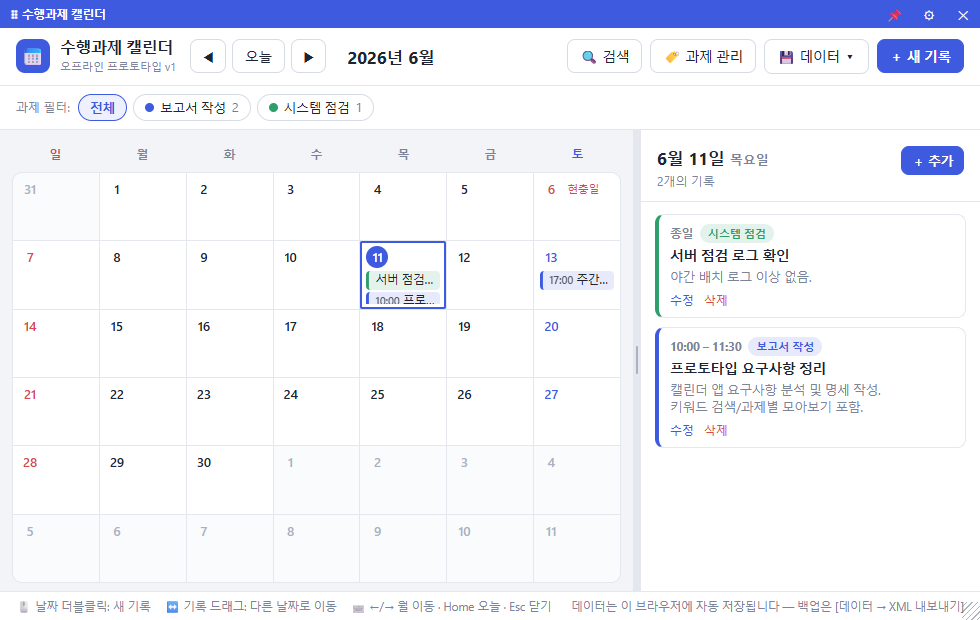
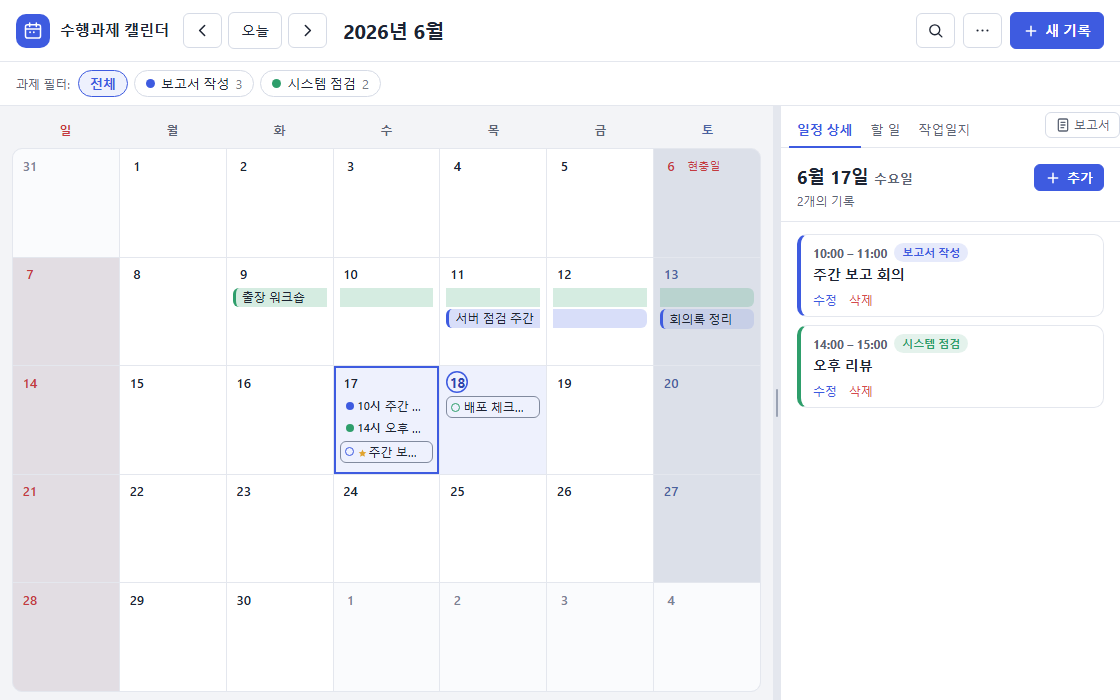
docs: README 최신화 + 사용 설명서(USAGE.md) + 스크린샷 갱신
- README: 접근성(WCAG AA 키보드/ARIA)·다크모드·단색 SVG 아이콘 시스템·
  토스트+되돌리기·부팅 스켈레톤 반영. 키보드 단축키 표 추가, 크기 171MB,
  로드맵 완료분 체크, 라이선스→LICENSE(MIT) 링크, 현재 UI 스크린샷 임베드.
- USAGE.md(사용 설명서) 신설: 시작·화면구성·등록/수정·기간/반복·할일·
  Git 작업일지·보고서·검색·창모드·다크·키보드 단축키 전체표·데이터/백업·FAQ.
- assets/screenshot.png: 현재 UI(멀티데이 막대·시간칩·할일 별표·우측 카드)로 갱신.

diff --git a/USAGE.md b/USAGE.md
@@ -1,0 +1,143 @@
+# 📖 사용 설명서 — 수행과제 캘린더
+
+> 처음 쓰는 분을 위한 기능별 사용법 + 키보드 단축키 + 문제 해결. 빌드/배포는 [DEPLOY.md](DEPLOY.md), 데이터 스키마는 [SPEC.md](SPEC.md)를 보세요.
+
+<img src="assets/screenshot.png" alt="수행과제 캘린더 화면" width="820">
+
+---
+
+## 목차
+1. [시작하기](#1-시작하기)
+2. [화면 구성](#2-화면-구성)
+3. [일정·할 일 등록 (빠른 캡처)](#3-일정할-일-등록-빠른-캡처)
+4. [수정·삭제](#4-수정삭제)
+5. [기간·반복 일정](#5-기간반복-일정)
+6. [할 일(TODO)](#6-할-일todo)
+7. [Git 커밋 → 작업일지](#7-git-커밋--작업일지)
+8. [보고서 만들기](#8-보고서-만들기)
+9. [검색·과제 필터](#9-검색과제-필터)
+10. [창 모드·트레이·크기 조절](#10-창-모드트레이크기-조절)
+11. [다크 모드](#11-다크-모드)
+12. [키보드 단축키](#12-키보드-단축키)
+13. [데이터·백업](#13-데이터백업)
+14. [문제 해결(FAQ)](#14-문제-해결faq)
+
+---
+
+## 1. 시작하기
+
+- **위젯(권장)**: 배포된 `수행과제캘린더.exe`를 실행하면 바탕화면에 위젯이 뜹니다. `Win+D`로 바탕화면을 봐도 함께 보입니다.
+- **브라우저(체험)**: `task-calendar-prototype.html`을 더블클릭하면 Edge에서 그대로 동작합니다(데이터는 브라우저 localStorage에 저장).
+- 첫 실행 때 **자동 시작(로그인 시 실행)** 여부를 1회 물어봅니다. 나중에 ⚙(설정)에서 변경할 수 있습니다.
+- **과제(카테고리) 먼저 만들기**: 상단 `⋯ → 🏷 과제 관리`에서 "보고서 작성", "시스템 점검"처럼 수행 과제를 만들고 색을 지정하세요. (Git 연동 시 저장소 경로도 여기서.)
+
+## 2. 화면 구성
+
+| 영역 | 설명 |
+|---|---|
+| **상단바** | `◀ 오늘 ▶` 월 이동 · 연·월 제목(클릭 시 점프) · `검색` · `⋯`(과제 관리·데이터·도움말) · `＋ 새 기록` |
+| **과제 필터 바** | 과제별 보기 토글. "전체"가 기본 |
+| **월 그리드(좌)** | 주말 옅은 틴트, 오늘은 얇은 링, 선택 날짜는 강조. 일정=채운 막대 / 할 일=속 빈 링 칩 / 시간 일정=색점+시각 |
+| **우측 패널** | `[일정 상세 | 할 일 | 작업일지]` 탭 + `📋 보고서`. 셋 다 **선택한 날짜**를 따라갑니다 |
+| **분할바** | 좌/우 너비 드래그 조절 (좁은 폭에선 우측이 하단 시트로) |
+
+## 3. 일정·할 일 등록 (빠른 캡처)
+
+모든 등록은 **빠른 캡처** 한 곳으로 모입니다. 여는 방법:
+- 상단 **＋ 새 기록**
+- 날짜 칸 **더블클릭**
+- 우측 패널 **＋ 추가** / **＋ 할 일 추가**
+
+빠른 캡처에서:
+1. 상단 토글로 **일정 / 할 일** 선택
+2. 제목 입력
+3. 날짜·과제 지정
+4. 필요하면 **옵션 더보기**로 종일/시간·반복·기간·메모(일정) 또는 중요·기간·메모(할 일)
+5. **추가**
+
+> 시간을 넣으려면 "종일" 체크를 끄면 시작/종료 시간 칸이 나타납니다.
+
+## 4. 수정·삭제
+
+- **수정**: 캘린더의 일정 칩을 클릭하거나, 우측 카드의 **수정**. 단순 일정은 빠른 캡처(편집 모드)로 열리고, **자세히 편집**을 누르면 전체 편집기(반복 간격·횟수, Git 등)로 넘어갑니다(입력값 보존).
+- **삭제**: 카드의 **삭제**. 삭제 후 토스트의 **실행 취소**로 되돌릴 수 있습니다.
+- **반복 일정 삭제**: "이 날짜만"(건너뛰기) 또는 "전체 반복" 선택.
+
+## 5. 기간·반복 일정
+
+- **기간(여러 날)**: 옵션 더보기 → "여러 날에 걸침" 체크 → 종료일. 캘린더에 **연속 막대**로 표시되고, 겹치는 막대는 서로 다른 줄(레인)에 고정됩니다.
+- **반복**: 옵션 더보기 → 반복(매주/매월). 간격(격주 등)·종료(횟수/날짜)는 **자세히 편집**에서.
+- 기간 일정은 막대를 드래그하면 시작·종료가 함께 이동(길이 보존)합니다.
+
+## 6. 할 일(TODO)
+
+- 우측 **할 일** 탭: 선택한 날짜의 [이 날 / 기한 없음 / 이 날 완료] 구획.
+- 체크박스로 완료 토글(완료는 취소선 + "완료" 구획으로 이동), **별표**로 중요 표시, **중요만** 버튼으로 필터.
+- 제목을 클릭하면 인라인 편집(텍스트·기한·과제·중요).
+- 기한이 있는 할 일은 **캘린더에 속 빈 링 칩**으로 표시되어 일정(채운 막대)과 모양으로 구분됩니다(색맹 안전).
+
+## 7. Git 커밋 → 작업일지
+
+> 위젯 모드 전용 (PC에 git 설치 + 과제에 로컬 저장소 경로 연결 필요).
+
+1. `⋯ → 🏷 과제 관리`에서 과제에 **Git 저장소 경로**와 **내 작성자(author)**를 연결.
+2. 우측 **작업일지** 탭의 **이 날 커밋** — 그날 내 커밋을 끌어와 작업일지(`source=git`)로 등록.
+3. **기간 일괄 불러오기** — 주말에 그 주 전체를 모든(또는 특정) 과제에서 한 번에 등록.
+4. 작업일지는 일반 일정과 달리 캘린더 셀에는 숨기고(작업일지 필터 켤 때만 노출), 패널·보고서에는 항상 보입니다.
+
+## 8. 보고서 만들기
+
+우측 패널 **📋 보고서** → 기간 프리셋(오늘/이번주/지난주/이번달/지난달) 또는 직접 지정 → 과제별·날짜별 **Markdown/텍스트 초안** 생성 → **복사** 또는 파일 저장. 그룹웨어/HWP 주간보고에 붙여넣기 좋게 정리됩니다.
+
+## 9. 검색·과제 필터
+
+- **검색**(상단 돋보기): 제목·메모·과제로 전역 검색, 날짜별 그룹 + 하이라이트. 클릭하면 그 날짜로 이동.
+- **과제 필터 바**: 특정 과제만 캘린더에 표시.
+
+## 10. 창 모드·트레이·크기 조절
+
+- **창 모드**: `⚙ → 트레이 아이콘 사용`
+  - **켜기** = 일반 앱 창(작업표시줄·`Alt+Tab`에 표시, ✕ = 트레이로 숨김).
+  - **끄기** = 바탕화면 최하위 위젯(작업표시줄 제외, 항상 바탕화면 레이어).
+- **넓게 보기**: 호스트바 `🔳` — 일시적으로 크게·앞으로(다시 누르면 복귀).
+- **이동/크기**: 📌(고정) 해제 후 상단 바 드래그로 이동, 가장자리·모서리(8방향) 드래그로 크기 조절. ⚙에서 크기 프리셋·모니터 이동.
+
+## 11. 다크 모드
+
+별도 설정 없이 **Windows 테마(라이트/다크)를 따라 자동 전환**됩니다. 모든 아이콘이 단색(currentColor)이라 두 테마에서 자연스럽게 보입니다.
+
+## 12. 키보드 단축키
+
+마우스 없이 전체 조작이 가능합니다.
+
+| 상황 | 키 | 동작 |
+|---|---|---|
+| 월 그리드(셀 포커스) | `←` / `→` | 하루 이전/다음 |
+| | `↑` / `↓` | 한 주 이전/다음 |
+| | `PageUp` / `PageDown` | 한 달 이전/다음 |
+| | `Home` | 오늘로 |
+| | `Enter` / `Space` | 그 날짜 선택 |
+| 전역(그리드 밖) | `←` / `→` · `PageUp` / `PageDown` | 월 이동 |
+| | `Home` | 오늘 |
+| 우측 탭 | `←` / `→` / `Home` / `End` | 탭 이동(자동 활성화) |
+| 모달 | `Tab` / `Shift+Tab` | 포커스 순환(트랩) |
+| | `Esc` | 닫기 (모달→메뉴→하단시트→넓게보기 순) |
+| 입력 | `Enter` | 빠른 캡처/인라인 편집 저장 |
+
+> 모달을 닫으면 포커스가 그것을 연 버튼으로 자동 복원됩니다. 접근성: WCAG AA 대비, 가시 포커스 링, 화면 낭독기용 ARIA, `prefers-reduced-motion` 존중.
+
+## 13. 데이터·백업
+
+- 저장 위치(위젯): `%APPDATA%\TaskCalendar\`
+  - `data.xml` — 모든 일정·할 일·과제 (개방형 `taskCalendar` XML v1, [SPEC.md](SPEC.md))
+  - `widget.settings.json` — 창 위치/크기/모드
+- **백업·이전**: `⋯ → XML 내보내기`로 파일 저장, 다른 PC에서 `XML 가져오기`(교체/병합).
+- 데이터는 자동 저장됩니다. 정기 백업은 XML 내보내기를 권장합니다.
+
+## 14. 문제 해결(FAQ)
+
+- **위젯이 안 떠요 / WebView2 오류** → Microsoft Edge WebView2 런타임이 필요합니다(Windows 11 기본 내장). 없으면 설치 후 재실행.
+- **Git 커밋 불러오기 버튼이 없어요** → 위젯 모드 + 과제에 Git 저장소 경로 연결 + PC에 git 설치가 필요합니다(브라우저 체험판에는 없음).
+- **새 버전을 배포했는데 안 바뀌어요** → 로그인 자동시작이 옛 빌드 경로를 가리킬 수 있습니다([ISSUES.md](ISSUES.md) #1). 자동시작 경로를 새 exe로 갱신하세요.
+- **데이터 파일을 못 읽어요** → 원본을 `data.xml.bak`으로 백업하고 경고를 띄웁니다(기본값으로 덮어쓰지 않음). 백업본을 확인하세요.
+- **글자가 작아요/좁아요** → 가장자리 드래그로 창을 키우거나 ⚙ 크기 프리셋을 쓰세요. 좁은 폭에선 우측 패널이 하단 시트로 바뀝니다.

diff --git a/README.md b/README.md
@@ -9,6 +9,9 @@
 [![WebView2](https://img.shields.io/badge/UI-WebView2%20%2B%20HTML-1E9BF0)](#)
 [![Offline](https://img.shields.io/badge/Network-100%25%20Offline-2e9e6b)](#)
 [![Data](https://img.shields.io/badge/Data-XML%20(open%20format)-e08a00)](#)
+[![License](https://img.shields.io/badge/License-MIT-555)](LICENSE)
+
+<img src="assets/screenshot.png" alt="수행과제 캘린더 — 월 그리드, 멀티데이 막대, 우측 일정/할 일/작업일지 패널" width="860">
 
 </div>
 
@@ -22,9 +25,12 @@
 - 🖥 **두 가지 창 모드** — 바탕화면 최하위 위젯(기본) ↔ 일반 앱 창(작업표시줄·Alt+Tab 노출, 트레이). ⚙에서 전환.
 - 🧾 **보고서 자동화** — 과제별 git 커밋 → 작업일지 → 기간별 Markdown 보고서 초안.
 - 🗂 **개방형 데이터** — `taskCalendar` XML v1. 내보내기/가져오기로 백업·이전.
+- ♿ **접근성(WCAG AA)** — 월 그리드 키보드 내비(방향키·PageUp/Down·Enter), 모달 포커스 트랩·복원, ARIA 탭/그리드, 가시 포커스 링.
+- 🌗 **다크 모드** — OS 테마(`prefers-color-scheme`) 자동 전환. 단색 인라인 SVG 아이콘이 currentColor로 라이트/다크 모두 적응.
 
 > 단일 HTML(`task-calendar-prototype.html`)을 **그대로 본체로 임베드**해 WPF + WebView2 위젯으로 패키징합니다. 브라우저에서 HTML만 열어도 동일하게 동작합니다(데이터는 localStorage).
 
+> 📖 **사용 방법**: 기능별 상세 사용법·키보드 단축키·문제 해결은 **[USAGE.md (사용 설명서)](USAGE.md)** 참고.
 > 📄 **이어서 작업하려면**: 현재 상태·빌드·배포·남은 일은 **[CHANGELOG.md](CHANGELOG.md)** (인계 문서)에 모여 있습니다.
 
 ## ✨ 주요 기능
@@ -39,6 +45,9 @@
 - 🔍 **검색 / 과제별 모아보기** — 날짜별 그룹 + 하이라이트, 과제 필터 칩
 - 🧲 **드래그 이동**, ↔ **좌/우 너비 조절**, 🔳 **넓게 보기(포커스 모드)**
 - 🖥 **창 모드/트레이** — 바탕화면 위젯 ↔ 일반 앱 창(작업표시줄·Alt+Tab), 닫기→트레이 숨김
+- ♿ **접근성** — 키보드 전용 조작(그리드 방향키 내비·탭 roving·모달 포커스 트랩/복원), WCAG AA 대비, aria-live 알림, ≥40px 터치 타깃(좁은 폭)
+- 🌗 **다크 모드 · 단색 아이콘 시스템** — OS 테마 자동 전환, 전 표면 currentColor SVG 아이콘(단일 ICON 맵)
+- 🔔 **피드백** — 동작별 토스트(성공·경고·오류)+**되돌리기**, 부팅 로딩 스켈레톤, 빈 상태 일러스트
 - 💾 **XML 내보내기/가져오기**, 자동 시작(첫 실행 1회 질문)
 
 ## 🚀 시작하기
@@ -50,7 +59,7 @@
 # 프레임워크 종속(대상 PC에 .NET 9 런타임 필요, 빠름)
 dotnet publish widget\TaskCalendarWidget.csproj -c Release -o dist\app
 
-# 자체포함 단일 exe(런타임 불필요, ~163MB) — 인터넷+런타임팩 캐시 있는 빌드 PC에서
+# 자체포함 단일 exe(런타임 불필요, ~171MB) — 인터넷+런타임팩 캐시 있는 빌드 PC에서
 dotnet publish widget\TaskCalendarWidget.csproj -c Release -r win-x64 --self-contained true `
   -p:PublishSingleFile=true -p:IncludeNativeLibrariesForSelfExtract=true -o dist\portable
 ```
@@ -111,12 +120,28 @@ dotnet publish widget\TaskCalendarWidget.csproj -c Release -r win-x64 --self-con
 ## 🗺 로드맵
 
 - [x] 기간 + 반복 일정 · [x] Git 커밋 → 작업일지 + 보고서 · [x] 할 일(TODO) · [x] 트레이/창 모드 · [x] 자체포함 단일 exe
+- [x] **접근성(WCAG AA)** — 키보드 그리드 내비·모달 포커스 트랩·ARIA 탭/그리드·요약 aria-live
+- [x] **다크 모드**(prefers-color-scheme) · **단색 SVG 아이콘 시스템** · 토스트+되돌리기 · 부팅 스켈레톤
+- [x] 멀티데이 연속 막대(주별 레인) · 좁은 폭 바텀시트 모달
 - [ ] 주간 / 일간 타임라인 뷰
 - [ ] 데스크톱 알림
 - [ ] 음력 명절(설·추석) 표시
 - [ ] 회차별 반복 편집 · 미완료 할 일 롤오버
 - [ ] 자동시작 경로 이슈 해소 (`ISSUES.md` #1)
 
+## ⌨ 접근성 · 키보드
+
+마우스 없이 전체 조작 가능. 자세한 표는 [USAGE.md](USAGE.md#키보드-단축키).
+
+| 영역 | 키 |
+|---|---|
+| 월 그리드 | `←/→` 일 이동 · `↑/↓` 주 이동 · `PageUp/Down` 월 이동 · `Home` 오늘 · `Enter/Space` 선택 |
+| 전역 | `←/→`·`PageUp/Down` 월 이동 · `Home` 오늘 · `Esc` 모달/시트/넓게보기 닫기 |
+| 우측 탭 | `←/→/Home/End` 탭 이동(roving) |
+| 모달 | `Tab/Shift+Tab` 순환(포커스 트랩) · `Esc` 닫기 · 닫으면 호출 요소로 포커스 복원 |
+
+- WCAG AA 대비(본문 ≥4.5:1), 가시 포커스 링, ARIA(grid·tab·dialog·status live region), `prefers-reduced-motion` 존중.
+
 ## 📄 라이선스
 
-MIT License 권장 (루트에 `LICENSE` 추가 권장).
+[MIT License](LICENSE) — 자유롭게 사용·수정·재배포 가능. 저작권자 표기만 유지.
